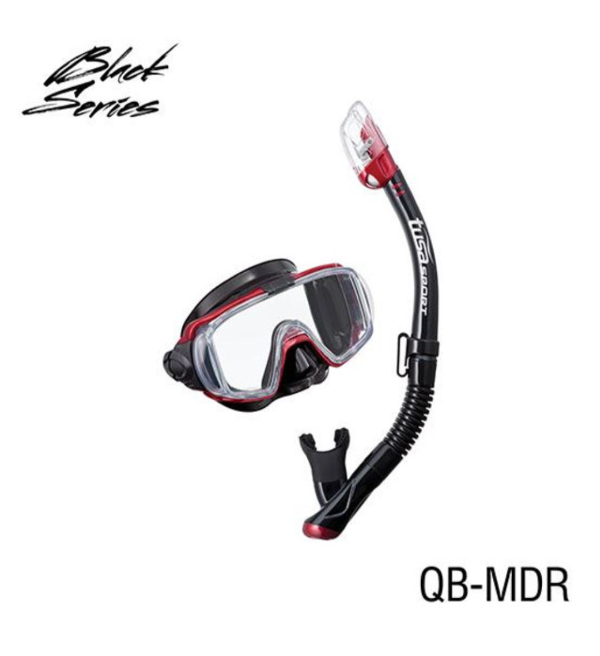
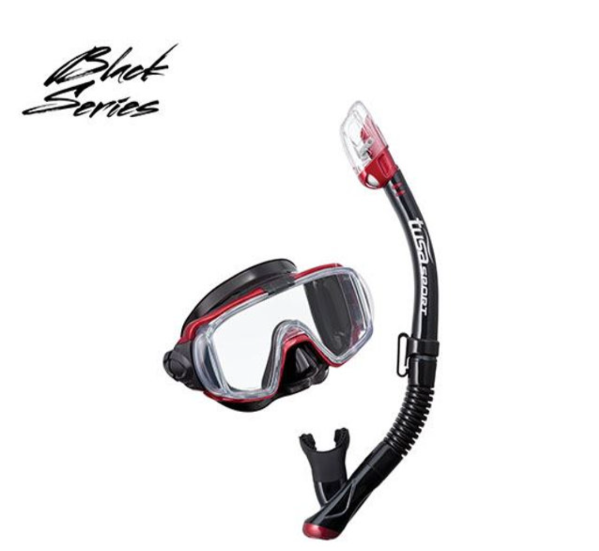
cambiosCasa

Changed region(s): [[0.2705, 0.1543, 0.7513, 0.9873], [0.0301, 0.0617, 0.3005, 0.216], [0.6912, 0.8639, 0.9616, 0.9256]]

diff --git a/js/main.js b/js/main.js
@@ -15,7 +15,7 @@ const productos = [
     nombre: "Snorkel rojo + Mascara",
     precio: 60,
     stock: 7,
-    urlImg:"https://i.ibb.co/M52qp2r/e438486c01efd7c13bc4d4779e233ebeac8300e497ae45660a46165b187db33610306.png"
+    urlImg:"https://i.ibb.co/yPZ0wbw/e438486c01efd7c13bc4d4779e233ebeac8300e497ae45660a46165b187db33610306.png"
   },
   {
     nombre: "Neoprene azul",
@@ -68,12 +68,24 @@ const verProducto = ({nombre,precio,stock,urlImg}) => {
   tarjeta.className = "tarjeta"
   tarjeta.innerHTML = `
                       <img src="${urlImg}" alt="">
-                      <h3>${nombre}</h3>
-                      <span>${precio}</span>
-                      <span>${stock}</span>
-                      <button>Add to cart</button>                    
+                      <div class="contenido">
+                      <h3> <b>${nombre}</b></h3>
+                      <span><b>Precio:</b> $${precio} <b>Stock:</b>${stock}</span>
+                      </div>
+                      <form id="formCarrito">
+                      <input type="number" value="1" min="1" max="${stock}" >
+                      <button type="submit">Add to cart</button>   
+                      </form>
+                                       
   `
   contenedorTarjetas.append(tarjeta)
+}
+
+const agregarCarrito = () =>{
+  const formCarrito = document.querySelector("#formCarrito")
+  formCarrito.addEventListener("submit",(e)=>{
+    e.preventDefault()
+  })
 }
 
 const verProductos = () =>{

diff --git a/scss/estilos.css b/scss/estilos.css
@@ -629,4 +629,70 @@ footer .logoWave {
   text-align: end;
   margin-top: -1.4em;
   padding-left: -10em;
+}
+
+#contenedorTarjetas {
+  display: flex;
+  flex-wrap: wrap;
+  justify-content: space-around;
+  background-color: rgb(255, 255, 255);
+  border-radius: 5px;
+  padding: 1em;
+  box-shadow: 10px 10px 4px rgba(255, 255, 255, 0.25);
+}
+
+.tarjeta {
+  width: 250px;
+  height: 32em;
+  border: 1px solid;
+  border-radius: 5px;
+  overflow: hidden;
+  display: flex;
+  flex-direction: column;
+  gap: 10px;
+  margin: 10px;
+}
+
+.tarjeta .contenido {
+  padding: 1em;
+  font-family: "Roboto";
+}
+
+.tarjeta img {
+  width: inherit;
+  height: 350px;
+  width: 100%;
+  -o-object-fit: cover;
+     object-fit: cover;
+}
+
+.tarjeta button {
+  border-radius: 10px;
+  background-color: #00E0FF;
+  font-family: "Roboto";
+  font-size: 1.8rem;
+  display: flex;
+  padding: 0em 4em;
+  margin: 0 0.2em 0.3em;
+}
+
+.tarjeta button:hover {
+  color: rgb(255, 255, 255);
+  background-color: #a7a7a7;
+}
+
+.carrito {
+  text-decoration: none;
+  position: relative;
+}
+
+.numeroCarrito {
+  background-color: #0199ad;
+  border-radius: 50%;
+  color: white;
+  padding: 2.5px 7.5px;
+  text-align: center;
+  position: absolute;
+  top: 35px;
+  left: 30px;
 }/*# sourceMappingURL=estilos.css.map */

diff --git a/scss/estilos.scss b/scss/estilos.scss
@@ -637,3 +637,72 @@ align-items: end;
     padding-left:-10em;
 
 }
+
+#contenedorTarjetas{
+    display: flex;
+    flex-wrap: wrap;
+    justify-content: space-around;
+    background-color: rgb(255, 255, 255);
+    border-radius: 5px;
+    padding:1em;
+    box-shadow: 10px 10px 4px rgba(255, 255, 255, 0.25);
+
+}
+
+.tarjeta{
+    width:250px;
+    height:32em;
+    border: 1px solid;
+    border-radius:5px;
+    overflow: hidden;
+    display:flex;
+    flex-direction: column;
+    gap:10px;
+    margin:10px;
+}
+
+.tarjeta .contenido{
+    padding:1em;
+    font-family: 'Roboto';
+}
+
+
+
+.tarjeta img {
+    width: inherit;
+    height: 350px;
+    width: 100%;
+    object-fit: cover;
+    
+}
+
+.tarjeta button{
+    border-radius: 10px;
+    background-color:#00E0FF;
+    font-family: 'Roboto';
+    font-size:1.8rem;
+    display:flex;
+    padding:0em 4em;
+    margin:0 0.2em 0.3em;
+
+}
+
+.tarjeta button:hover{
+    color:rgb(255, 255, 255);
+    background-color:#a7a7a7;
+}
+
+.carrito{
+    text-decoration: none;
+    position:relative;
+}
+.numeroCarrito{
+    background-color: #0199ad;
+    border-radius: 50%;
+    color:white;
+    padding:2.5px 7.5px;
+    text-align:center;
+    position:absolute;
+    top:35px;
+    left:30px;
+}

diff --git a/pages/tours.html b/pages/tours.html
@@ -39,9 +39,10 @@
             <a class="arrowText" href="#" tabindex="-1">
                 <img class="arrow" src="../assets/img/Arrow 1.svg" alt="arrow">
                 Join the experience
-            </a>
-            <a href="../pages/cart.html">
+            </a>  
+            <a class="carrito"href="../pages/cart.html">
                 <img src="../assets/img/cart.svg" alt="cart">
+                <span class="numeroCarrito">0</span>
             </a>
           </div>
         </div>
